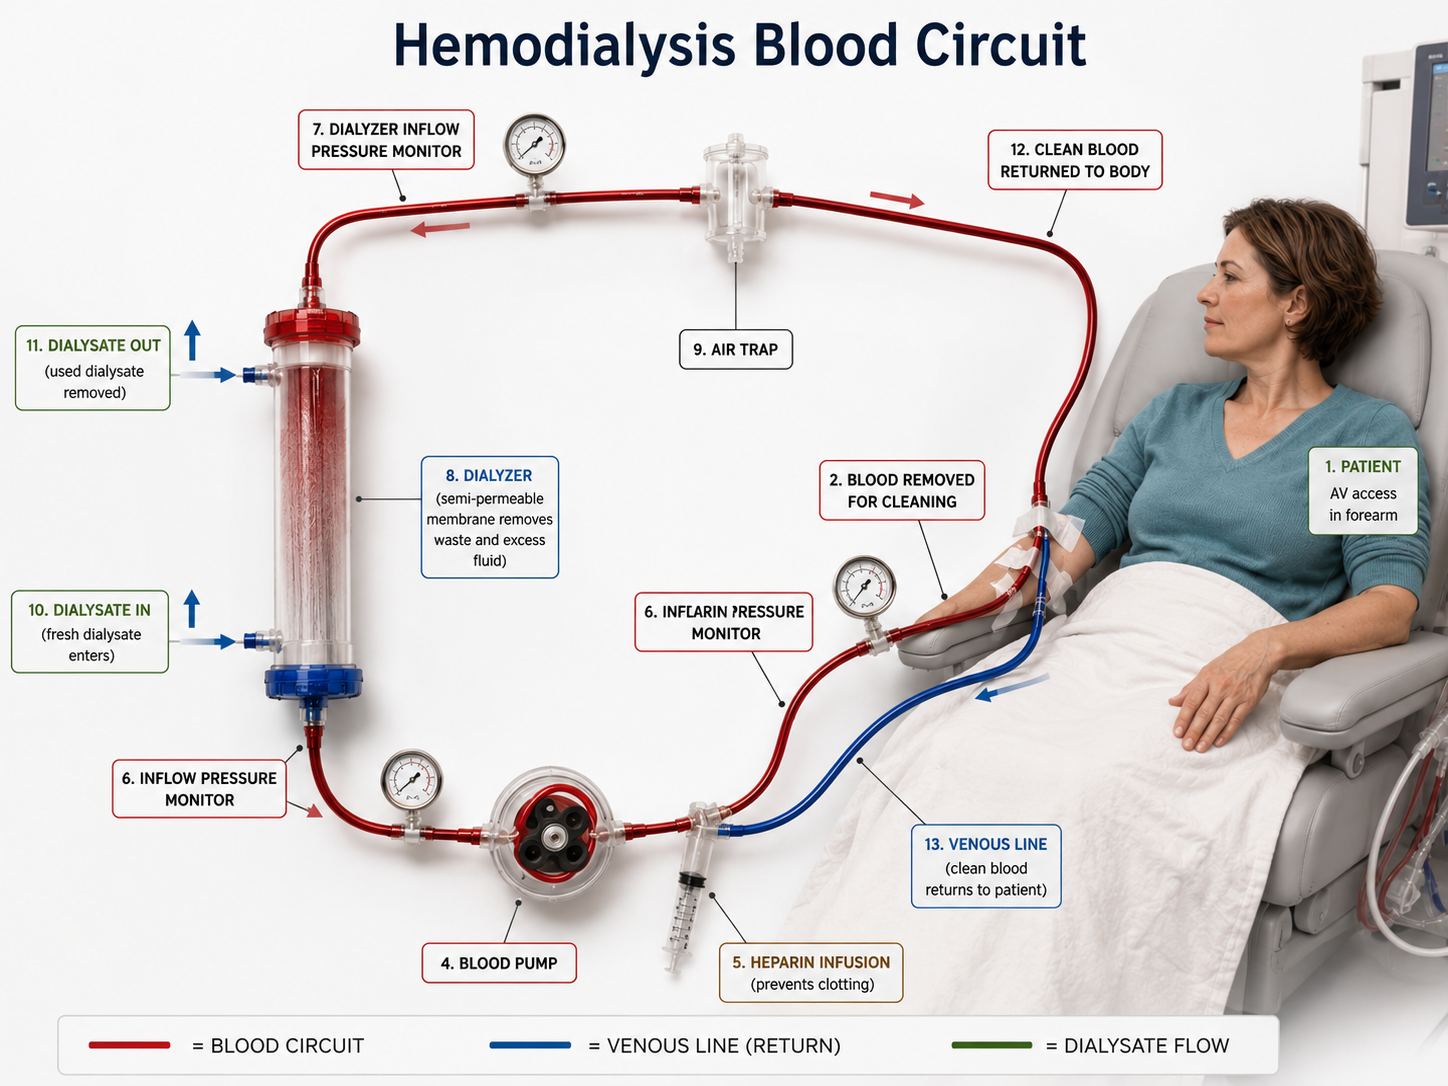
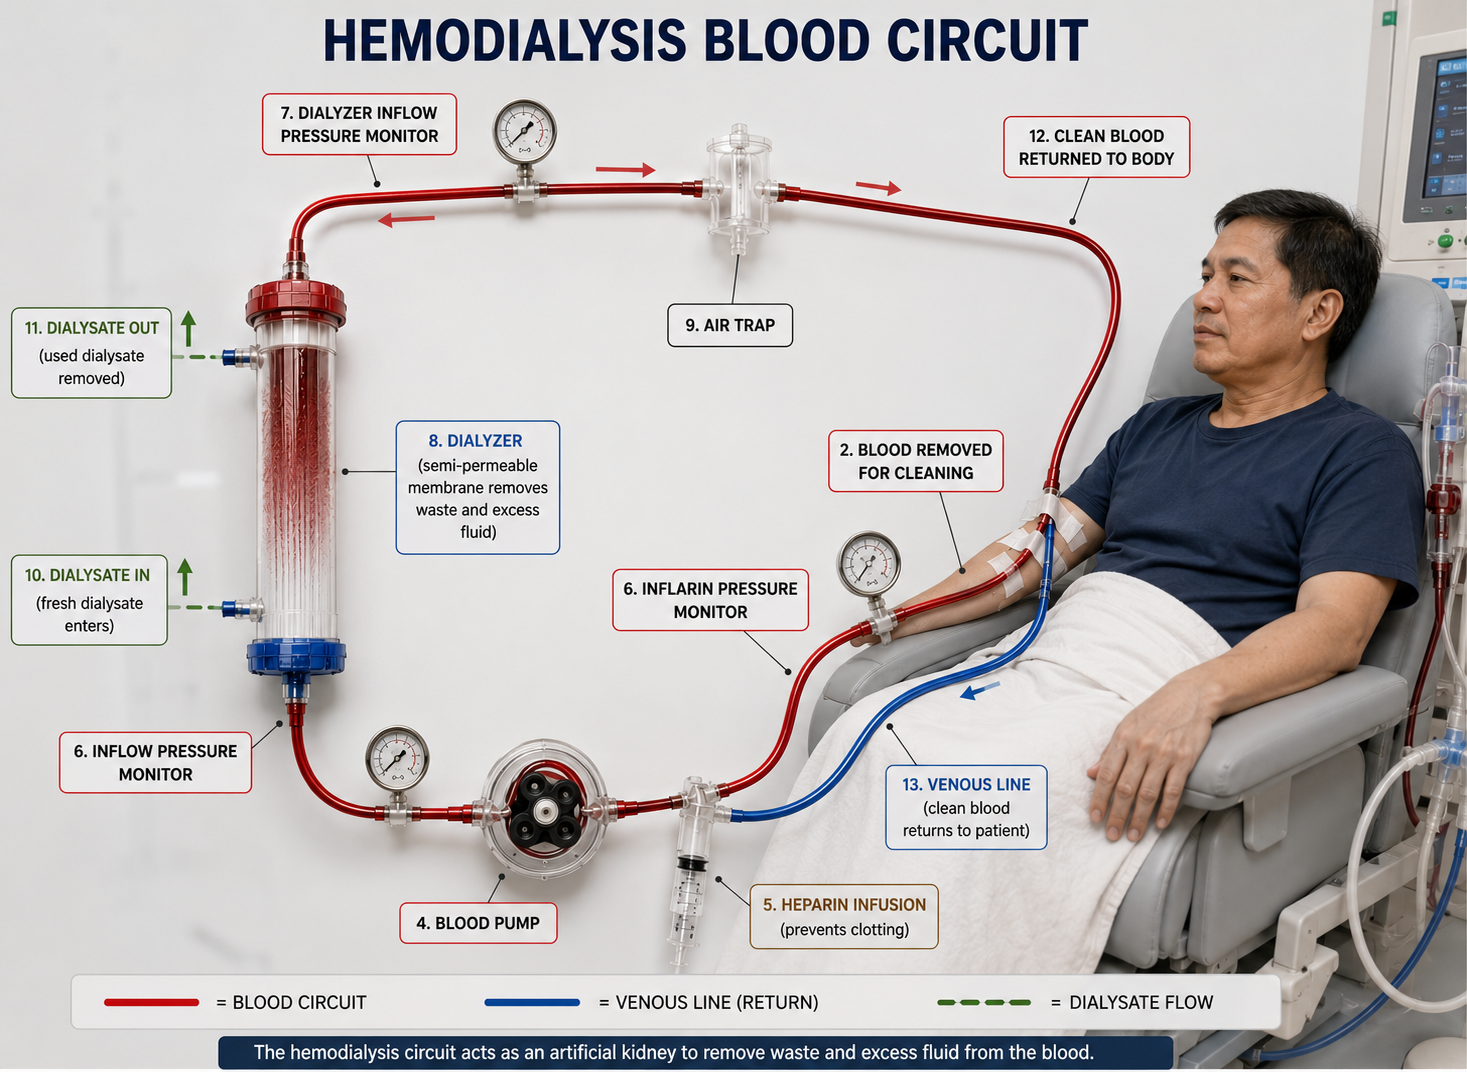
Replace HD blood circuit infographic with updated version

diff --git a/guides/dialysis-access-care.html b/guides/dialysis-access-care.html
@@ -502,7 +502,7 @@ body.dark .related-card-title {
     <figure style="margin:0 0 28px;">
       <picture>
         <source srcset="../images/access-hd-blood-circuit.webp" type="image/webp">
-        <img src="../images/access-hd-blood-circuit.png" loading="lazy" width="1448" height="1086" alt="Hemodialysis blood circuit diagram — patient, blood pump, dialyzer, air trap, heparin infusion, and return to patient" style="width:100%;height:auto;border-radius:12px;box-shadow:0 4px 24px rgba(0,0,0,.10);">
+        <img src="../images/access-hd-blood-circuit.png" loading="lazy" width="1467" height="1072" alt="Hemodialysis blood circuit diagram — patient, blood pump, dialyzer, air trap, heparin infusion, and return to patient" style="width:100%;height:auto;border-radius:12px;box-shadow:0 4px 24px rgba(0,0,0,.10);">
       </picture>
       <figcaption style="text-align:center;font-size:12px;color:var(--text-muted);margin-top:8px;">The hemodialysis blood circuit: blood leaves through the arterial line, passes through the dialyzer where waste and excess fluid are removed, then returns cleaned through the venous line.</figcaption>
     </figure>
